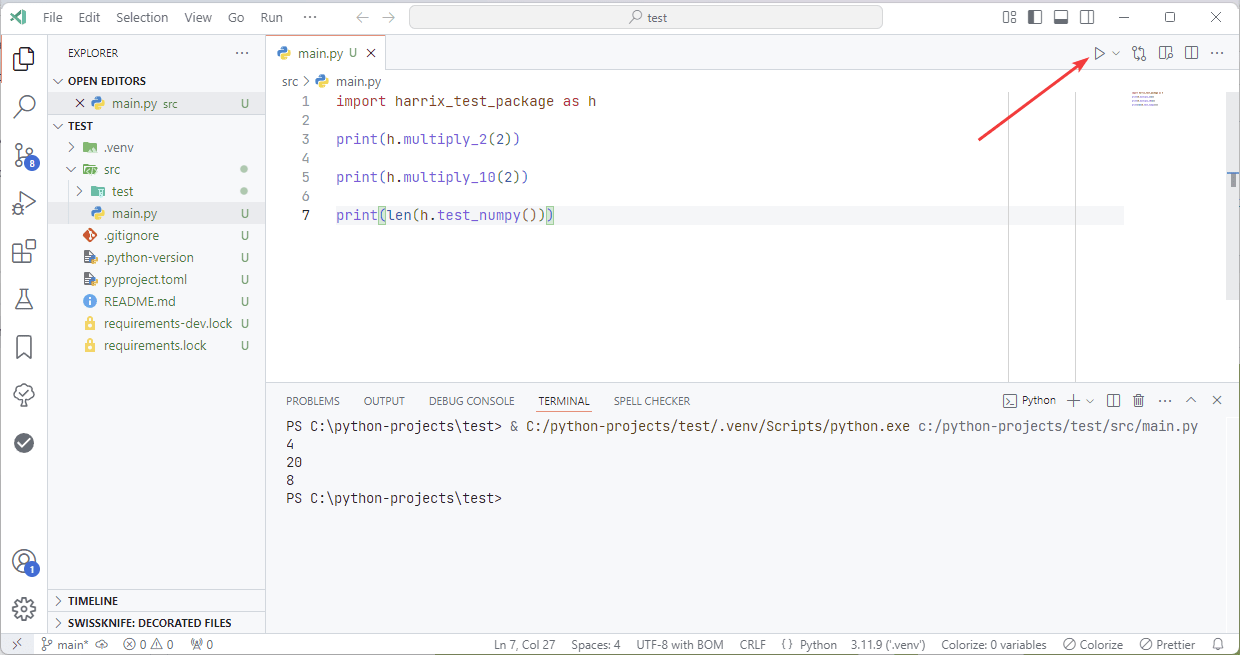
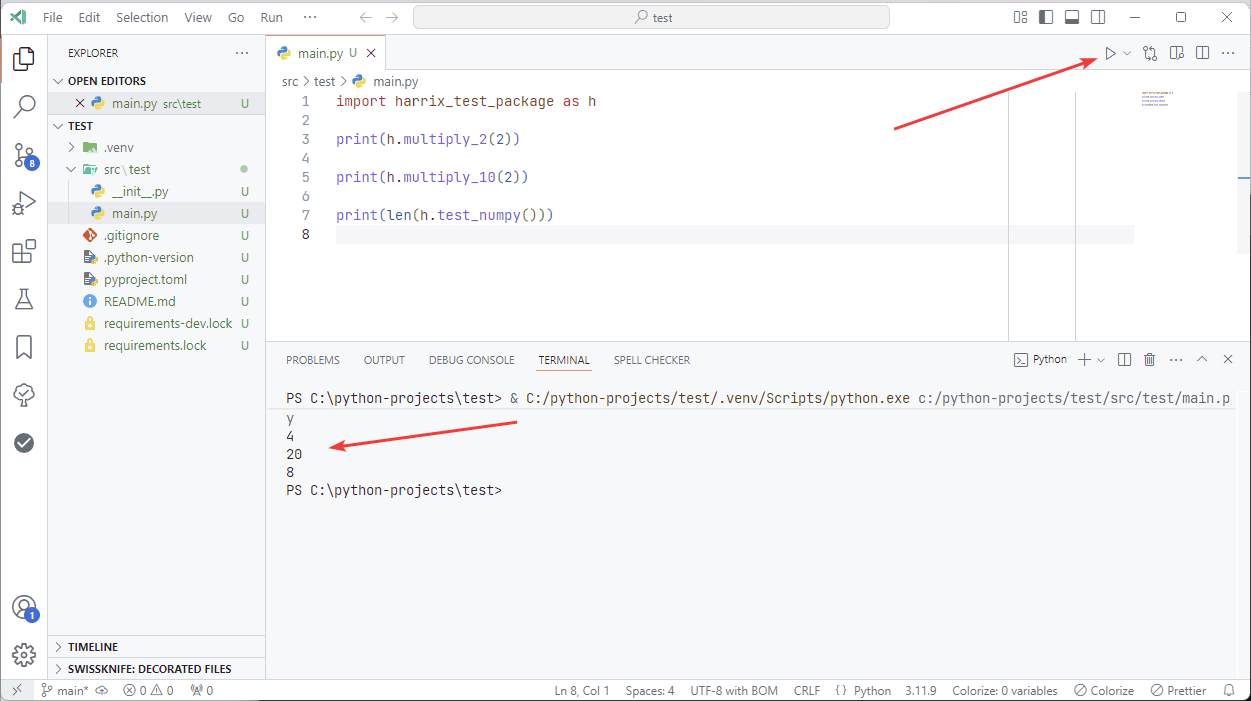
Fix error

diff --git a/create-python-package-rye/create-python-package-rye.md b/create-python-package-rye/create-python-package-rye.md
@@ -371,7 +371,7 @@ rye init test
 cd test
 rye sync
 rye add harrix-test-package
-"" | Out-File -FilePath src\main.py -Encoding utf8
+"" | Out-File -FilePath src\test\main.py -Encoding utf8
 code C:\python-projects\test
 ```
 
